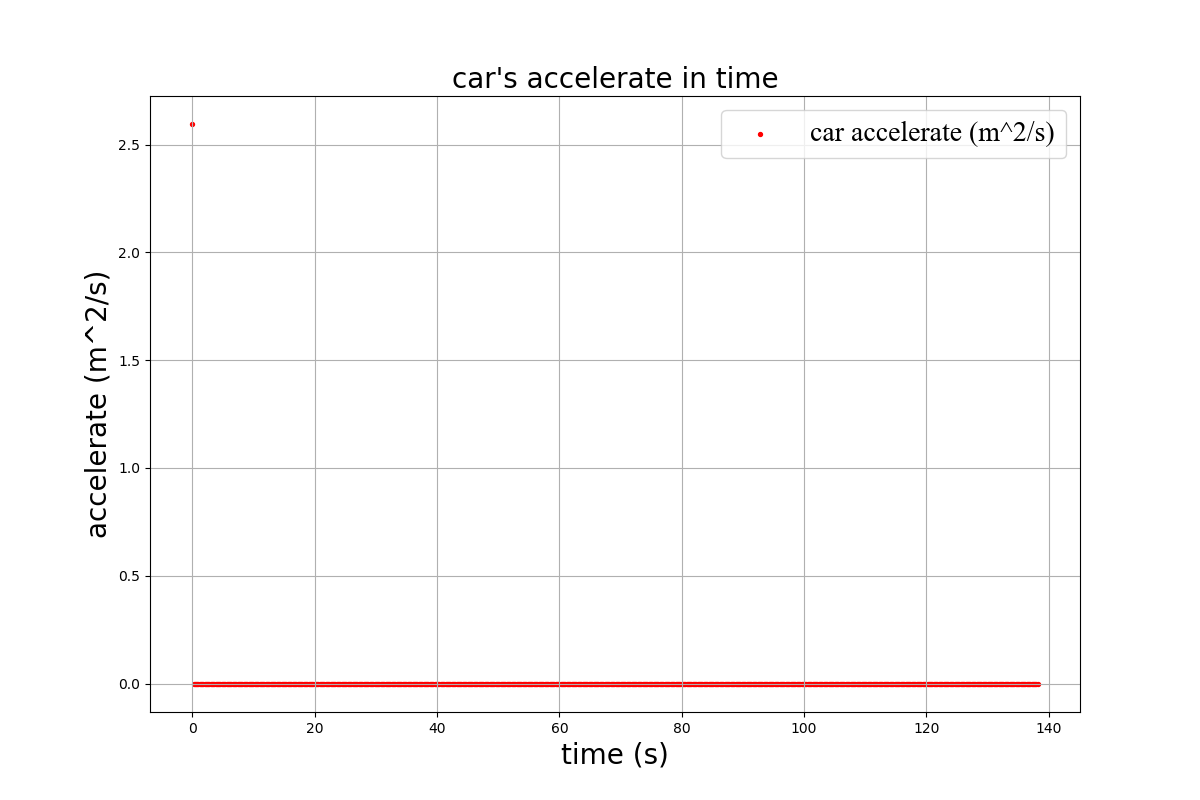
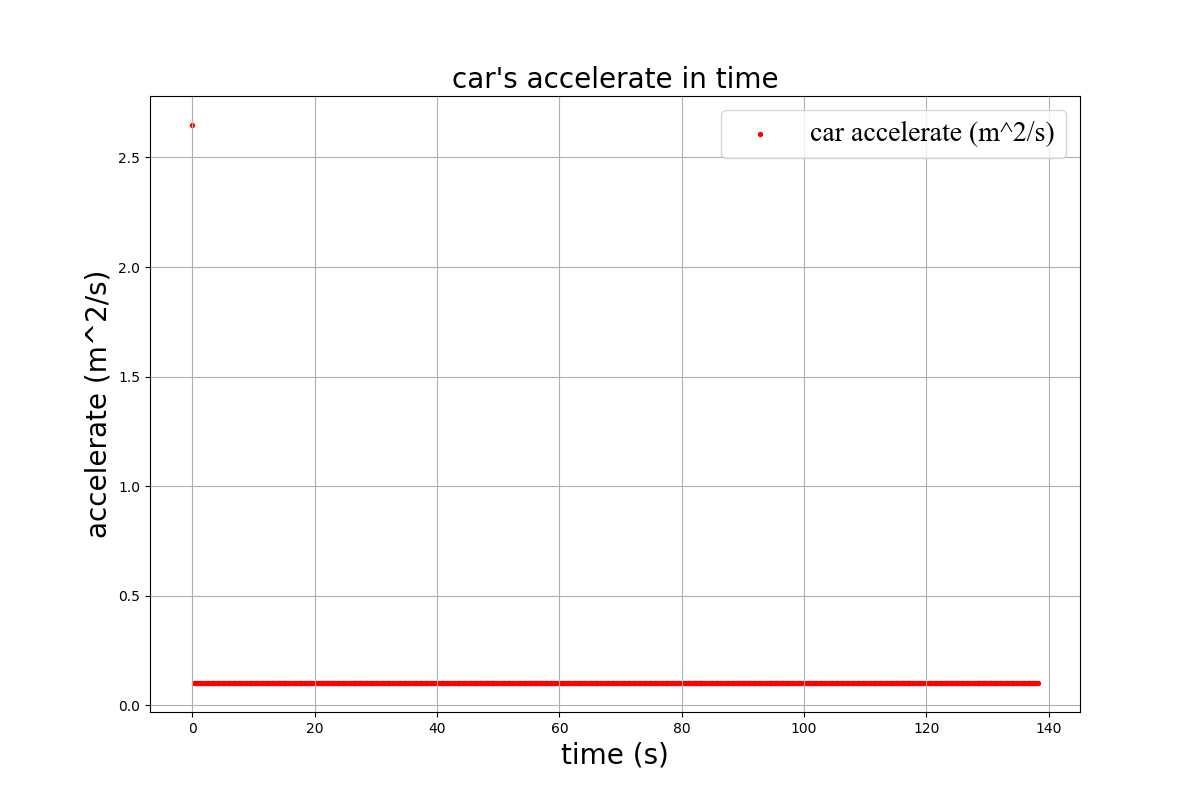
dynamics dont work! probably mpc problem

diff --git a/CAR dynamic model (under development)/main_autopark.py b/CAR dynamic model (under development)/main_autopark.py
@@ -46,7 +46,7 @@ if __name__ == '__main__':
 
     ########################### initialization ##############################################
     env = Environment(obs)
-    my_car = Car_Dynamics(start[0], start[1], 0, 0, 0, 0, length=4, dt=0.1, Gama=0)
+    my_car = Car_Dynamics(start[0], start[1], 0, 0, 0, 0, length=4, dt=0.16, Gama=0)
     controller = MPC_Controller(horiz=5)
 
     res = env.render(my_car.x, my_car.y, my_car.psi, 0)
@@ -85,7 +85,7 @@ if __name__ == '__main__':
                 computed_angle = angle_of_line(interpolated_path[i][0],interpolated_path[i][1],interpolated_path[i+10][0],interpolated_path[i+10][1])
             except:
                 pass
-            print()
+            
             acc, delta = controller.optimize(my_car, point[0], point[1], computed_angle)
             my_car.update_state(my_car.move(acc,  delta))
             res = env.render(my_car.x, my_car.y, my_car.psi, delta)

diff --git a/CAR dynamic model (under development)/control.py b/CAR dynamic model (under development)/control.py
@@ -228,16 +228,6 @@ class MPC_Controller:
     def optimize(self, my_car, x_des, y_des, psi_des):
         bnd = [(0.1, 1),(np.deg2rad(-60), np.deg2rad(60))]*5
         result = minimize(self.mpc_cost, args=(my_car, x_des, y_des, psi_des), x0 = np.zeros((2*self.horiz)), method='SLSQP', bounds = bnd)
-        # accelerate = result.x[0]
-        # delta = result.x[1]
-        # max_delta = 45
-        # if np.deg2rad(-max_delta)<=result.x[1]<=np.deg2rad(max_delta):
-        #     delta = result.x[1]
-        # elif result.x[1]>np.deg2rad(max_delta):
-        #     delta = np.deg2rad(max_delta)
-        # else:
-        #     delta = np.deg2rad(-max_delta)
-        print(result)
         return result.x[0],  result.x[1]
 
 
